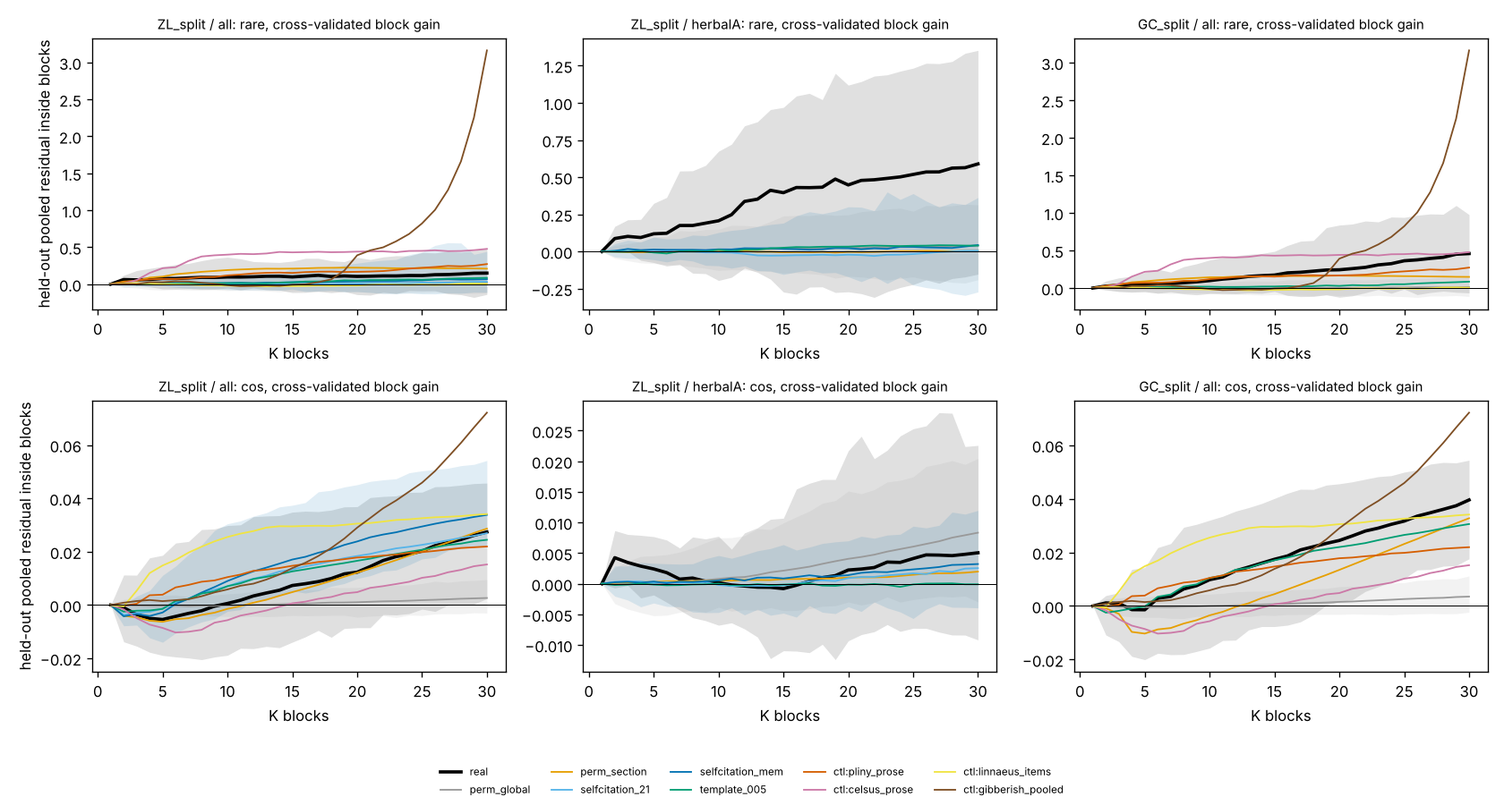
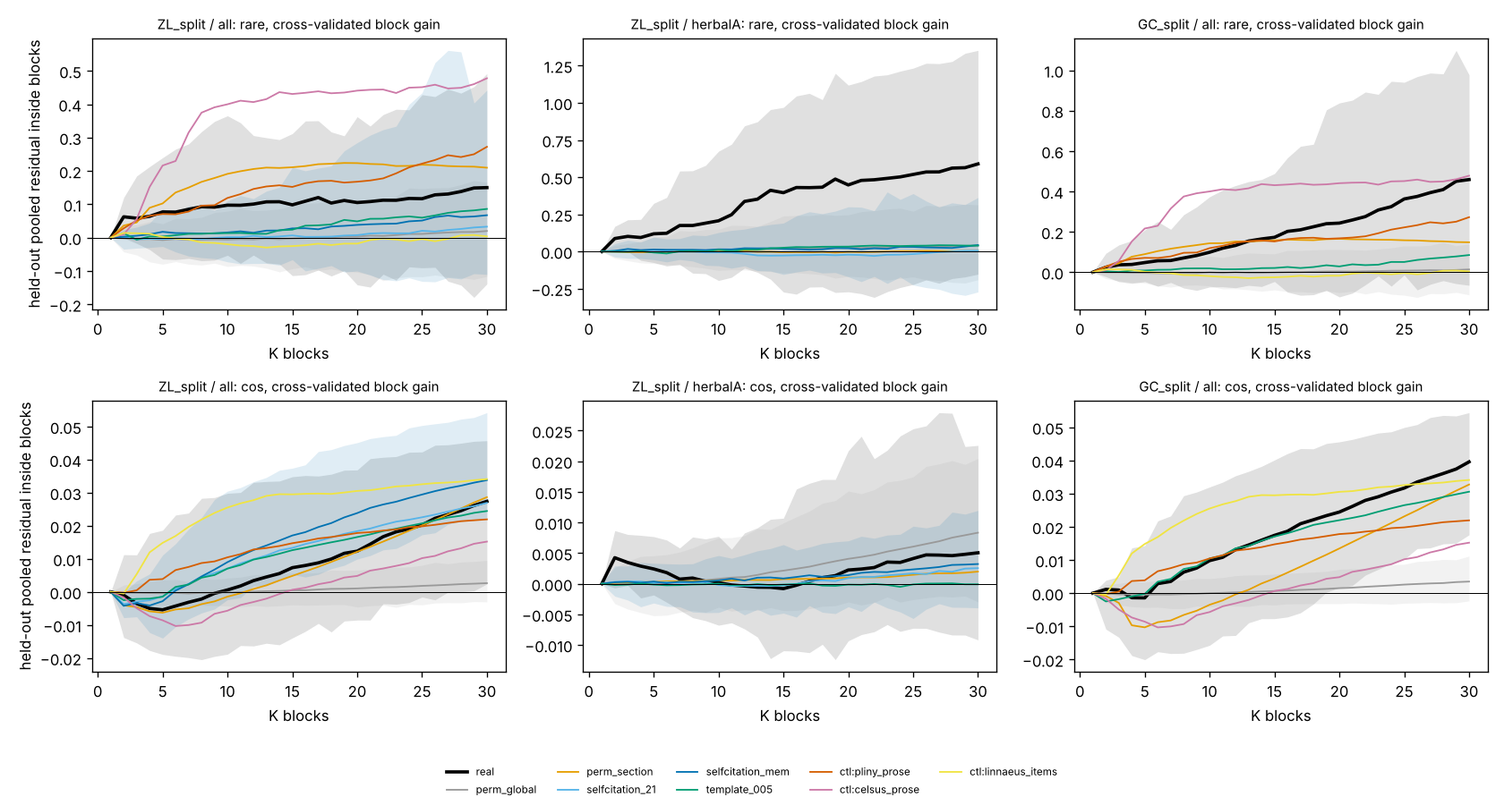
018: report, notes, result.md, final summary tables and figures
Claude-Session: https://claude.ai/code/session_01MxCeoTvfmJTEfqQAe8rUec

diff --git a/experiments/018_locality_drift_vs_blocks/summarize.py b/experiments/018_locality_drift_vs_blocks/summarize.py
@@ -256,7 +256,7 @@ def plots(prof: pd.DataFrame, gain: pd.DataFrame, qm: pd.DataFrame) -> None:
     fig, axes = plt.subplots(2, 3, figsize=(14, 7.5))
     for row, measure in enumerate(("rare", "cos")):
         for ax, (combo, cut) in zip(axes[row], (("ZL_split", "all"), ("ZL_split", "herbalA"), ("GC_split", "all"))):
-            for src in PLOT_SOURCES:
+            for src in [x for x in PLOT_SOURCES if x != "ctl:gibberish_pooled"]:   # 60 pages: K up to 30 is meaningless
                 dd = _series(gain[(gain["measure"] == measure) & (gain["cut"] == cut)], combo, src).sort_values("K")
                 if dd.empty:
                     continue

diff --git a/results/018_locality_drift_vs_blocks/report.md b/results/018_locality_drift_vs_blocks/report.md
@@ -1,0 +1,246 @@
+# 018 – Lokalita slovníku: drift, nebo bloky? A fyzické pořadí stránek
+
+Větev `exp/018-locality-drift-vs-blocks`; kód `experiments/018_locality_drift_vs_blocks/run.py` + `summarize.py`,
+funkce `voytools/locality.py` (testy `tests/test_locality.py`), rozšíření `voytools/selfcitation.py` o paměť přes
+stránky (`p_prev_page`, `page_memory`; výchozí hodnoty dávají bitově shodný výstup, test
+`test_memory_defaults_are_bit_identical`). Volby při výkladu spec jsou v `experiments/018_locality_drift_vs_blocks/notes.md`.
+Čísla níže jsou z `similarity_profile.csv`, `memory_calibration.csv`, `segmentation_gain.csv`, `crossval_blocks.csv`,
+`changepoints.csv` / `changepoints_list.csv`, `physical_order.csv`, `neighbours.csv` / `neighbours_list.csv`,
+`quire_matrix.csv` a `summary.csv` (3 580 běhů, `meta.json`).
+
+## Co se měřilo
+
+Stránka = folio s čistým `P` textem (ZL i GC 207 stránek), vzdálenost = pořadí v souboru. Hlavní míra podobnosti
+(a) = sdílení **vzácných kmenů** (2–5 výskytů, dekompozice a): pro dvojici stránek pozorovaný počet dvojic výskytů
+téhož kmene a jeho očekávání při permutaci tokenů na stránky s vahou ∝ velikosti (015); podobnost množiny dvojic
+= Σ pozorované / Σ očekávané (= poměr k náhodě z 015). Míry (b) kosinus log(1+f) bez 30 funkčních kmenů (006) a
+(c) Jaccard kmenů ≥ 2 výskytů jsou doplňkové (nesou závislost na velikosti stránky, kterou sdílejí všechny nully
+v témž layoutu). Hladký model f(d): sdružený poměr po binech vzdálenosti 1…40 (+ 41+), izotonicky nerostoucí;
+reziduum R = N − f(d)·W. Bloky: optimální segmentace na K = 1…30 souvislých bloků (DP) podle jednostranné deviance
+bloku (Poisson pro (a), Gauss pro (b, c); doslovný součet reziduí je degenerovaný – viz notes). **Zisk bloků** =
+sdružené reziduum uvnitř bloků, křížově ověřený: bloky na jedné polovině kmenů, zisk na druhé polovině proti
+jejímu vlastnímu binovanému profilu (očekávání 0 pro bloky nezávislé na druhé polovině). Pro (a) je zisk
+v jednotkách poměru k náhodě (0,10 = uvnitř bloků o 10 % víc sdílených dvojic, než dá vzdálenost). Reál: 50 rozdělení
+(řádek = rozdělení; interval = kvantily přes rozdělení, `se` = směrodatná chyba průměru), nully a generátory:
+5 rozdělení na vzorek, interval přes vzorky (200 permutací stránek, 30 generátorů). Výřezy `all`, `within` (jen
+dvojice v téže sekci), `herbalA` (H & jazyk A, 95 stránek); K_ref = počet souvislých úseků sekce (24; herbář A:
+kvaternů, 9).
+
+## 1. Profil vzdálenosti (`similarity_profile.csv`, `distance_profile.png`)
+
+Sdílení vzácných kmenů, poměr pozorované/očekávané podle vzdálenosti d (výřez `all`):
+
+| zdroj | 1 | 2 | 3 | 5 | 8 | 12 | 16 | 24 | 32 | 41+ |
+|---|---|---|---|---|---|---|---|---|---|---|
+| **ZL split, reál** | 1,97 | 1,75 | 1,44 | 1,55 | 0,70 | 0,93 | 0,99 | 1,31 | 0,74 | 0,86 |
+| **GC split, reál** | 1,73 | 1,57 | 1,30 | 1,23 | 1,60 | 1,55 | 1,29 | 1,24 | 0,88 | 0,85 |
+| ZL join / GC join, reál | 2,25 / 1,66 | 1,86 / 1,19 | 1,41 / 1,30 | 1,55 / 1,46 | 0,96 / 1,75 | 0,89 / 1,40 | 1,16 / 1,55 | 1,07 / 1,38 | 0,81 / 0,53 | 0,86 / 0,86 |
+| permutace stránek globálně (ZL) | 0,97 | 1,00 | 1,01 | 0,98 | 1,00 | 0,99 | 1,03 | 0,96 | 0,98 | 0,98 |
+| permutace stránek v sekci (ZL) | 1,36 | 1,35 | 1,36 | 1,28 | 1,23 | 1,18 | 1,12 | 1,01 | 0,93 | 0,90 |
+| ts2020 cfg 21 (ZL) | 1,56 | 0,81 | 0,76 | 0,72 | 0,73 | 0,74 | 0,79 | 0,71 | 0,73 | 0,68 |
+| **ts2020-mem** (0,3 / 8; ZL) | 1,92 | 1,60 | 1,49 | 1,34 | 1,25 | 1,08 | 0,99 | 0,88 | 0,71 | 0,71 |
+| šablona 005 s tématem (ZL) | 0,78 | 0,76 | 0,79 | 0,86 | 0,79 | 0,71 | 0,81 | 0,81 | 0,78 | 0,79 |
+| Plinius (knihy) | 3,90 | 2,23 | 1,86 | 1,71 | 1,23 | 1,05 | 0,76 | 0,82 | 0,94 | 0,75 |
+| Celsus (knihy) | 4,11 | 2,54 | 2,35 | 1,96 | 1,65 | 1,00 | 0,93 | 0,82 | 0,93 | 0,66 |
+| Linnaeus po položkách | 4,67 | 1,70 | 1,04 | 1,09 | 0,89 | 0,64 | 0,46 | 0,91 | 0,81 | 0,55 |
+| blábol (60 stránek) | 4,54 | 1,03 | 0,61 | 0,58 | 0,25 | 0,39 | 0,52 | 0,22 | 0,16 | 0,28 |
+
+Uvnitř sekcí (`within`): ZL split reál 2,13 / 1,84 / 1,48 / 1,72 / 0,77 / 1,21 / 0,98 (d = 1, 2, 3, 5, 8, 12, 16),
+GC split 1,79 / 1,57 / 1,26 / 1,21 / 1,47 / 2,12 / 1,66; ts2020-mem 1,90 / 1,54 / 1,50 / 1,34 / 1,30 / 1,07 / 1,14;
+permutace v sekci plochá 1,41 / 1,43 / 1,43 / 1,38 / 1,37 / 1,42 / 1,41. Herbář A: ZL split 2,23 / 1,34 / 1,67 /
+1,44 / 0,71 / 1,02 / 0,99, GC join 1,77 / 1,36 / 1,40 / 1,10 / 1,07 / 1,47 / 2,10; ts2020-mem 1,98 / 1,55 / 1,35 /
+1,33 / 1,24 / 0,93 / 0,97; permutace uvnitř sekce 1,00 / 0,98 / 0,99 / 0,96 / 0,97 / 1,01 / 1,04.
+
+Výklad: profil 015 se reprodukuje (d = 1: 1,97; pokles do ~8–15 stránek), platí i uvnitř sekcí a uvnitř herbáře A
+(kde permutace uvnitř sekce dá přesně 1). ts2020 s pamětí přes stránky dává stejný hladký pokles ve všech třech
+výřezech – z konstrukce, bez znalosti sekcí.
+
+## 2. ts2020 s pamětí přes stránky (`memory_calibration.csv`)
+
+Mřížka p_prev_page ∈ {0,1; 0,2; 0,3; 0,5} × page_memory ∈ {2, 4, 8, 16}, 5 seedů, ztráta = Σ (poměr binu − reál)²
+přes biny 1 / 2–3 / 4–7 / 8–15 profilu 015. Vítěz **p_prev_page = 0,3, page_memory = 8** (ztráta 0,036; druhý 0,5/16:
+0,21; cfg 21 bez paměti: 1,17). Vítěz, 30 seedů [2,5–97,5 %]:
+
+| zdroj | 0 | 1 | 2–3 | 4–7 | 8–15 | 16–31 | 32+ | `x_far_nl` | přebytek ≥ 16 v sekci | v písaři | tvar 0 / 1–3 / 4–15 / 16+ | loss B (004) |
+|---|---|---|---|---|---|---|---|---|---|---|---|---|
+| reál ZL split (015) | 2,90 | 1,97 | 1,60 | 1,38 | 1,24 | 1,02 | 0,87 | −0,053 | **+0,081** | +0,068 | −0,02 / +0,01 / +0,01 / 0,00 | 0,0 |
+| ts2020 cfg 21 | 35,2 | 1,56 [0,82; 2,17] | 0,79 | 0,72 | 0,75 [0,59; 0,84] | 0,75 | 0,68 | −0,008 | +0,014 [−0,023; 0,056] | +0,004 | +0,08 / −0,02 / −0,04 / −0,04 | 0,049 |
+| **ts2020-mem** | 18,6 | 1,93 [1,27; 2,35] | 1,55 | 1,36 | 1,14 [0,94; 1,31] | 0,92 | 0,72 | −0,074 | +0,008 [−0,029; 0,075] | +0,002 | +0,09 / +0,03 / +0,01 / −0,03 | **0,114** (share_near 0,141 vs 0,173; hapax 0,58 vs 0,68) |
+
+Výklad: paměť přes stránky dožene **celý pokles 1–15 stránek** (biny v intervalu reálu) a lokalitu uvnitř sekcí
+i herbáře A (bod 1), ale **ne přebytek dálkových dvojic v téže sekci** (+0,008 proti +0,081, interval reál
+nedosahuje) ani tvar opakování (kopie na téže stránce +0,09 nad paradigma jako cfg 21); vrchol na stránce zůstává
+6× vyšší než reál (18,6 vs 2,9). Ztráta 004 vzroste z 0,049 na 0,114 (> 0,1): kopírování z dřívějších stránek
+sníží podíl blízkých sousedů v řádku (share_near 0,141 proti 0,173 reálu) – generátor s pamětí už není kalibrovaný
+na cíle 004 (uvedeno podle spec).
+
+## 3. Zisk bloků nad model vzdálenosti (`segmentation_gain.csv`, `crossval_blocks.csv`, `segmentation_gain.png`)
+
+Křížově ověřený zisk bloků, vzácné kmeny; průměr [interval], u reálu navíc `se` (`crossval_blocks.csv`):
+
+| výřez / zdroj | K = 2 | K = 8 | K = 24 (K_ref) | K = 30 |
+|---|---|---|---|---|
+| **all, ZL split, reál** | 0,063 [−0,00; 0,12] se 0,005 | 0,093 [−0,07; 0,32] se 0,015 | **0,118** [−0,09; 0,38] se 0,021 | 0,150 se 0,026 |
+| all, ZL join / GC split / GC join, reál | 0,073 / 0,024 / 0,055 | 0,134 / 0,071 / 0,066 | 0,131 / **0,324** / 0,133 | 0,152 / 0,459 / 0,157 |
+| all, permutace globálně (ZL) | −0,002 [−0,04; 0,04] | −0,006 [−0,08; 0,06] | 0,011 [−0,12; 0,15] | 0,020 [−0,12; 0,17] |
+| all, permutace v sekci (ZL) | 0,036 [0,00; 0,08] | 0,167 [0,01; 0,31] | **0,215** [−0,02; 0,51] | 0,210 |
+| all, ts2020 cfg 21 (ZL) | 0,002 | −0,004 | 0,013 [−0,07; 0,13] | 0,033 |
+| all, **ts2020-mem** (ZL) | 0,003 | 0,013 | **0,049** [−0,12; 0,40] | 0,067 [−0,11; 0,44] |
+| all, šablona 005 s tématem (ZL / GC) | 0,013 / 0,004 | 0,012 / 0,018 | 0,064 / 0,051 | 0,086 / 0,085 |
+| all, Plinius (K_ref = 7) | 0,028 | 0,096 [0,03; 0,25] | 0,211 | 0,272 |
+| all, Plinius, permutace v knize | 0,028 | 0,267 | 0,591 [0,41; 0,77] | 0,658 |
+| all, Celsus / Linnaeus | 0,010 / 0,014 | 0,375 / −0,014 | 0,450 / −0,011 | 0,478 / 0,004 |
+| **within, ZL split, reál** | 0,004 | 0,000 | 0,032 [−0,21; 0,30] se 0,022 | 0,071 se 0,029 |
+| within, ZL join / GC split / GC join, reál | −0,006 / −0,019 / 0,001 | −0,022 / 0,024 / −0,029 | −0,037 / 0,226 / 0,005 | 0,032 / 0,311 / 0,006 |
+| within, permutace globálně / v sekci (ZL) | −0,002 / 0,005 | −0,001 / 0,031 | 0,011 [−0,15; 0,16] / 0,065 | 0,021 / 0,089 |
+| within, ts2020-mem / šablona (ZL) | −0,002 / −0,001 | −0,015 / 0,006 | 0,006 / 0,066 | 0,049 / 0,086 |
+| **herbalA, ZL split, reál** (K = 2 / 9 / 18 / 27) | 0,088 [0,01; 0,17] | 0,191 se 0,029 | **0,432** [−0,24; 1,02] se 0,059 | 0,535 se 0,064 |
+| herbalA, ZL join / GC split / GC join, reál | 0,073 / 0,050 / 0,053 | 0,315 / 0,066 / 0,322 | 0,646 / 0,079 / 0,682 | 0,755 / 0,072 / 0,813 |
+| herbalA, permutace globálně / v sekci (ZL) | −0,001 / −0,000 | 0,004 / −0,003 | 0,024 [−0,16; 0,25] / −0,003 | 0,035 / 0,004 |
+| herbalA, ts2020 / ts2020-mem / šablona (ZL) | 0,004 / 0,005 / −0,001 | −0,006 / 0,010 / 0,001 | −0,022 / 0,015 / 0,032 | −0,004 / 0,026 / 0,042 |
+
+Kosinus (výřez all, K = 24): reál ZL 0,019 [−0,00; 0,04], permutace globálně 0,002 [−0,004; 0,008], **permutace
+v sekci 0,019**, ts2020 0,022, ts2020-mem 0,028, šablona 0,020, Plinius 0,020, Linnaeus 0,032 – u kosinu a Jaccardu
+dává stejný zisk každý zdroj v témž layoutu (velikost stránek a jazyk A/B podle pozice), nerozlišují nic; dál jen (a).
+
+Výklad: (i) V celém rukopisu je zisk bloků nad vzdálenost kladný a nad permutaci stránek (ZL split 0,12 ± 0,02
+proti 0,01 [−0,12; 0,15] při K = 24; ve všech čtyřech kombinacích; při K = 2 je první hranice f70r2 | f75r, tj.
+konec herbáře/astro a začátek balneo – bloky = sekce a jazyk). ts2020-mem dá 0,05, šablona s tématem 0,06–0,09,
+ts2020 0,01. Permutace stránek uvnitř sekcí má zisk **vyšší než reál** (0,22): když se zruší pozvolný pokles uvnitř
+sekce, všechna sekční podobnost zůstane blokům; v reálu část sekční podobnosti pohltí f(d). Plinius s knihami je
+stejný případ (0,21 proti 0,59 po permutaci v knize). (ii) **Uvnitř sekcí** zisk nad permutaci není (ZL split 0,03
+± 0,02, ZL join −0,04, GC join 0,01 při K = 24; jen GC split 0,23 ± 0,03 – nepotvrzeno v join). (iii) **V herbáři A**
+je zisk kladný a 10× nad všemi nully a generátory ve třech ze čtyř kombinací (ZL split 0,43 ± 0,06, ZL join 0,65,
+GC join 0,68 při K = 18; permutace 0,02 [−0,16; 0,25], ts2020-mem 0,02, šablona 0,03); GC split dá jen 0,08 ± 0,03.
+Hodnoty jsou v jednotkách poměru: uvnitř nalezených bloků herbáře A je o 40–70 % víc sdílených vzácných kmenů,
+než dá vzdálenost.
+
+## 4. Body změny (`changepoints.csv`, `changepoints_list.csv`)
+
+Přesnost hranic (± 1 stránka) při K = K_ref, výřez all, vzácné kmeny; náhodná základna = náhodné hranice:
+
+| zdroj | sekce: přesnost [perm. interval] / náhoda | úplnost | kvatern: přesnost / náhoda | jazyk (K = 2 K_ref): přesnost / náhoda |
+|---|---|---|---|---|
+| **ZL split, reál** | 0,30 / 0,21 | 0,43 / 0,30 | 0,35 / 0,21 | 0,41 / 0,36 |
+| ZL join / GC split / GC join, reál | 0,35 / 0,35 / 0,26 | 0,48 / 0,39 / 0,35 | 0,30 / 0,39 / 0,22 | 0,34 / 0,48 / 0,41 |
+| permutace globálně (ZL) | 0,20 [0,04; 0,35] | 0,29 | 0,21 [0,04; 0,35] | 0,35 |
+| permutace v sekci (ZL) | 0,35 [0,17; 0,57] | 0,45 | 0,23 | 0,27 |
+| ts2020 / ts2020-mem / šablona (ZL) | 0,20 / 0,24 / 0,24 | 0,28 / 0,36 / 0,36 | 0,22 / 0,23 / 0,25 | 0,36 / 0,37 / 0,32 |
+| kosinus, ZL split reál | **0,48** [perm 0,04; 0,35] | 0,52 | 0,30 | 0,52 |
+| Plinius (knihy, K = 7) | **0,33** [perm 0,00; 0,33] / 0,09 | 0,33 | 0,17 / 0,22 | – |
+| Celsus (knihy, K = 5) | **0,50** [0,00; 0,25] / 0,05 | 0,50 | 0,00 | – |
+| Linnaeus (řády, K = 4) | 0,00 / 0,04 | 0,00 | 0,33 | – |
+| blábol (pisatelé, K = 30) | 1,00 / 0,86 | 0,97 | 0,66 / 0,64 | – |
+
+Herbář A (K = 9, hranice kvaternů): ZL split a ZL join 0,50 (úplnost 0,38) proti náhodě 0,27 a permutaci
+[0,00; 0,50]; GC 0,12; ts2020-mem 0,28, šablona 0,28. Hranice reálu v ZL split (vzácné kmeny, K = 24): 7 z 23 sedí na
+hranici sekce (f68v2|f69r, f70r2|f75r, f75v|f76r, f86v3|f87r, f87v|f88r, f89v1|f90r1, f96v|f99r), 8 na hranici
+kvaternu, zbytek uvnitř herbáře A (f9r|f9v, f13r|f13v, f38r|f38v, f49r|f49v …) a uvnitř Q20 (f104v|f105r,
+f107v|f108r, f114r|f114v); kosinus: 11 z 23 na sekci (f56v|f57r, f67r2|f67v2, f70r2|f75r, f84v|f85r1, f102v1|f103r …).
+
+Výklad: body změny vzácných kmenů sedí na hranice sekcí jen na horním okraji permutačního intervalu (0,30–0,35
+proti [0,04; 0,35]); kosinus v ZL split je nad ním (0,48), ale permutace v sekci dává totéž (0,48) – jde o skok
+sekce/jazyka, ne o bloky uvnitř. Pozitivní kontrola funguje: knihy Plinia a Celsa se najdou (0,33 a 0,50 proti
+náhodě 0,05–0,09), Linnaeus po položkách ne. Uvnitř herbáře A sedí hranice bloků na kvaterny v ZL (0,50 proti 0,27),
+v GC ne.
+
+## 5. Fyzické pořadí (`physical_order.csv`, `quire_matrix.csv`, `quire_matrix.png`)
+
+Přebytek rezidua dvojic na témž bifoliu / v témž kvaternu proti ostatním dvojicím na stejné vzdálenosti (d ≤ 15;
+(a) v jednotkách poměru, kosinus v jednotkách kosinu):
+
+| zdroj | bifolio, (a) | bifolio, kosinus | kvatern, (a) | kvatern, kosinus | pořadí kvaternů: nejpodobnější = soused | ρ spektrální seriace vs čtení |
+|---|---|---|---|---|---|---|
+| **ZL split, reál** (337 / 1 430 dvojic) | +0,36 | **+0,046** | +0,35 | +0,062 | 0,00 (kos.) / 0,13 (a) | **0,76** (kos.) / 0,44 (a) |
+| ZL join / GC split / GC join, reál | +0,35 / +0,45 / +0,70 | +0,043 / +0,029 / +0,033 | +0,33 / +0,10 / +0,29 | +0,054 / +0,067 / +0,062 | 0,06 / 0,00 / 0,00 | 0,72 / 0,71 / 0,63 |
+| permutace globálně (ZL) | +0,01 [−0,49; 0,46] | −0,000 [−0,008; 0,010] | −0,00 [−0,53; 0,40] | −0,000 [−0,014; 0,012] | 0,11 [0,00; 0,25] | 0,19 [0,01; 0,54] |
+| permutace v sekci (ZL) | +0,09 [−0,35; 0,53] | +0,009 [0,001; 0,019] | +0,21 [−0,21; 0,52] | +0,048 [0,037; 0,058] | 0,03 | 0,28 [0,02; 0,61] |
+| ts2020 / ts2020-mem / šablona (ZL) | −0,03 / +0,05 / +0,07 | −0,004 / −0,007 / +0,004 | −0,14 / −0,20 / −0,16 | +0,026 / +0,031 / +0,024 | 0,06 / 0,10 / 0,06 | 0,31 / 0,30 / 0,28 |
+| Plinius / Celsus / Linnaeus | −0,00 / −0,19 / −0,03 | −0,001 / −0,010 / −0,015 | −0,10 / −0,17 / −0,44 | +0,015 / +0,014 / +0,009 | 0,50 / 0,13 / 0,31 | 0,03 / 0,58 / 0,43 |
+
+Výklad: **dvojice stránek na témž bifoliu jsou si podobnější než jiné dvojice ve stejné vzdálenosti čtení**:
+kosinus +0,029 až +0,046 ve všech čtyřech kombinacích proti permutaci globálně [−0,008; +0,010], permutaci v sekci
+[+0,001; +0,019] a generátorům (≤ +0,004); u vzácných kmenů stejný směr (+0,35 až +0,70), ale interval permutace je
+široký (významně jen GC join). Latinské kontroly v témž layoutu dávají 0 (bifolio v lineárním textu nic neznamená).
+Kvatern: kosinus +0,05 až +0,07 jen těsně nad permutací v sekci (+0,048 [0,037; 0,058]) – skok na hranici kvaternu
+nad rámec sekce je nanejvýš malý. Spektrální pořadí kvaternů (z matice reziduí) koreluje s pořadím čtení
+(|ρ| 0,63–0,76 kosinus proti permutacím [0,01; 0,61]); u (a) 0,32–0,57 uvnitř intervalu.
+
+## 6. Sousedé (`neighbours.csv`, `neighbours_list.csv`)
+
+Tři nejpodobnější stránky téhož jazyka; podíl sousedů ve vzdálenosti ≤ 5 / > 16, počet stránek se všemi třemi
+sousedy > 8 stránek daleko (ze 197 stránek s ≥ 3 partnery):
+
+| zdroj | reziduum (a): ≤ 5 / > 16 / anomálie | reziduum kosinus | surový kosinus: ≤ 5 / > 16 / anomálie |
+|---|---|---|---|
+| **ZL split, reál** | 0,074 / 0,83 / 139 | 0,090 / 0,73 / 140 | **0,220 / 0,57 / 88** |
+| ZL join / GC split / GC join, reál | 0,083 / 0,095 / 0,112 | 0,086 / 0,076 / 0,085 | 0,227 / 0,223 / 0,245 (anomálie 84 / 83 / 76) |
+| permutace globálně (ZL) | 0,067 [0,05; 0,09] / 0,82 / 144 [131; 156] | 0,072 [0,05; 0,10] / 0,80 / 141 | 0,076 [0,05; 0,10] / 0,80 / 138 [123; 153] |
+| ts2020-mem (ZL) | 0,086 / 0,77 / 135 | 0,092 / 0,75 / 132 | – |
+| Plinius / Celsus / Linnaeus | 0,178 / 0,179 / 0,146 | 0,162 / 0,166 / 0,279 | 0,443 / 0,425 / 0,699 (anomálie 30 / 45 / 8) |
+
+Výklad: po odečtení f(d) nejsou nejpodobnější stránky blíž než při permutaci (0,07–0,11 proti [0,05; 0,10]) –
+lokalita je v hladké složce, ne v jednotlivých „párech“ stránek. Surovou podobností je 22 % sousedů do 5 stránek
+(permutace 8 %), ale **88 stránek ze 197 má všechny tři sousedy > 8 stránek daleko** (permutace 138 [123; 153];
+Plinius 30, Celsus 45, Linnaeus 8). Seznam (`neighbours_list.csv`, `cos_raw`, `anomalous = 1`): převážně herbář A
+v Q1–Q7 (f1v–f55v; sousedé jiné stránky herbáře A o 15–100 stránek dál), herbářové B listy f26, f31, f33, f39,
+f40, f41v, f43, f46r, f48, f50, f55 (sousedé v Q13–Q20: f111r, f108v, f106v, f115v), f66r, f75r, f84v, f85–f86 (astro/kosmo), f94–f95 (herbář B v Q17), recepty f103r–f106v (sousedé f111–
+f115 10–18 stránek dál) a f116r. Herbářové B stránky uprostřed herbáře A mají sousedy v B sekcích na konci
+rukopisu – to je známá hypotéza o přeskládání (herbář B v herbáři A), ale zde jde jen o jazyk A/B: sousedé se
+hledají v témž jazyce, a B stránky v Q4–Q7 nemají poblíž žádnou jinou B stránku.
+
+## Kontroly a kritéria přijetí
+
+* Kritérium 1: vše pro ZL i GC, split i join (všechny body), tři výřezy; ts2020 a ts2020-mem jen ZL; šablona split.
+* Kritérium 3 (podezřelé hodnoty): zisk bloků permutace stránek globálně je ≈ 0 ve všech výřezech (−0,006 až
+  +0,02, intervaly obsahují 0; `segmentation_gain.csv`); ts2020-mem s p_prev_page = 0 je bitově shodný s ts2020
+  (test); Plinius má body změny na hranicích knih (0,33 proti náhodě 0,09; Celsus 0,50 proti 0,05).
+* Kosinus a Jaccard: zisk bloků stejný u reálu i u všech nullů v témž layoutu (velikost stránek) – použity jen pro
+  fyzické pořadí, kde permutace dávají 0.
+* Neurčitost zisku (a): intervaly přes rozdělení kmenů jsou široké (jedna polovina vzácných kmenů ≈ 240 kmenů);
+  závěry stojí na průměru 50 rozdělení (se 0,02–0,06) proti rozdělení 200 permutací.
+
+## Odpovědi (kritérium 2)
+
+| otázka | ZL | GC |
+|---|---|---|
+| (i) reprodukuje ts2020-mem profil 1–15 a zároveň přebytek v téže sekci a lokalitu uvnitř sekcí? | profil 1–15 **ano** (1,93 / 1,55 / 1,36 / 1,14 proti 1,97 / 1,60 / 1,38 / 1,24), lokalita uvnitř sekcí a herbáře A **ano**; přebytek ≥ 16 v sekci **ne** (+0,008 proti +0,081); tvar opakování ne; loss 004 0,11 (> 0,1) | – (jen Eva) |
+| (ii) křížově ověřený zisk bloků nad ts2020-mem? | celý rukopis **ano, malý** (0,12 ± 0,02 proti 0,05; Plinius s knihami 0,21); uvnitř sekcí **ne** (0,03 ± 0,02); herbář A **ano, velký** (0,43 ± 0,06 proti 0,02) | celý 0,32 / 0,13 (split / join); uvnitř sekcí 0,23 / 0,01; herbář A 0,08 / 0,68 |
+| (iii) sedí body změny na hranice sekcí/kvaternů nad náhodu? | sekce: jen na okraji permutačního intervalu (0,30–0,35 vs [0,04; 0,35]; kosinus 0,48 = skok sekce/jazyka jako permutace v sekci); kvaterny uvnitř herbáře A **ano** (0,50 vs 0,27, interval [0; 0,50]) | sekce 0,26–0,35; kvaterny v herbáři A ne (0,12) |
+| (iv) sleduje podobnost pořadí čtení, nebo bifolia/kvaterny; anomálie? | **bifolio nad pořadí čtení** (kosinus +0,046 vs perm. ≤ +0,019); kvatern ≈ sekce; pořadí kvaternů sleduje čtení (ρ 0,76); 88 stránek s cizími sousedy (herbář A v Q1–Q7, herbářové B listy, recepty) | bifolio +0,029 / +0,033; ρ 0,71 / 0,63; 83 / 76 anomálií |
+
+## Shrnutí
+
+**Čísla:** profil vzácných kmenů 1,97 / 1,75 / 1,44 (d = 1, 2, 3) → 0,86 (41+), uvnitř sekcí 2,13 / 1,84 / 1,48,
+v herbáři A 2,23 / 1,34 / 1,67; ts2020-mem (0,3 / 8) 1,92 / 1,60 / 1,49 → 0,71, biny 015 1,93 / 1,55 / 1,36 / 1,14
+(reál 1,97 / 1,60 / 1,38 / 1,24), přebytek v sekci +0,008 (reál +0,081), loss 004 0,11. Zisk bloků (K = 24): celý
+rukopis ZL 0,12 ± 0,02 (GC 0,32 / 0,13), permutace 0,01 [−0,12; 0,15], permutace v sekci 0,22, ts2020-mem 0,05,
+šablona 0,06, Plinius 0,21; uvnitř sekcí 0,03 ± 0,02 (GC 0,23 / 0,01); herbář A (K = 18) 0,43 ± 0,06 (ZL join
+0,65, GC join 0,68, GC split 0,08), nully ≤ 0,04. Body změny na sekcích 0,30–0,35 vs permutace [0,04; 0,35], Plinius
+0,33 vs 0,09; kvaterny v herbáři A 0,50 vs 0,27. Bifolio: kosinus +0,029 až +0,046 vs permutace [−0,008; +0,010] a
+v sekci [+0,001; +0,019]; ρ pořadí kvaternů 0,63–0,76 vs [0,01; 0,61]; anomální stránky 76–88 vs 138 [123; 153].
+
+**Interpretace:** Lokalita slovníku má dvě složky. Hladký pokles přes 1–15 stránek, včetně poklesu uvnitř sekcí
+a uvnitř herbáře A, dá kopírování s pamětí přes stránky z konstrukce (p_prev_page 0,3, střední dosah 8 stránek) –
+sám o sobě drift nerozliší od tématu. Nad tento model zůstávají **bloky**: v celém rukopisu malé a odpovídající
+sekcím a jazyku A/B (zisk 0,12, body změny f70r2|f75r, f86v3|f87r, f96v|f99r …), uvnitř sekcí obecně žádné, ale
+**uvnitř herbáře A velké** (o 40–70 % víc sdílených vzácných kmenů v blocích než dá vzdálenost, 10× nad všemi nully,
+ve 3 ze 4 kombinací), s hranicemi sedícími na kvaterny v ZL. K tomu je podobnost vázána na **fyzický list**: stránky
+téhož bifolia si jsou podobnější než stránky ve stejné vzdálenosti čtení (ve všech čtyřech kombinacích, u latinských
+kontrol v témž layoutu nula), což paměťové kopírování nedává. Věta: **drift i bloky** – hladká složka slučitelná
+s pamětí přes stránky, blokovou složku (sekce/jazyk globálně, kvaternové bloky v herbáři A, vazba na bifolio) paměť
+nedá; podobnost sleduje spíš fyzickou jednotku (bifolio) než čistě pořadí čtení.
+
+**Co výsledek neukazuje:** nerozliší, zda bloky herbáře A jsou témata (skupiny rostlin), dávky psaní nebo
+samostatné sešity (kvaterny) – zisk a hranice na kvaternech jsou s obojím slučitelné; GC split dá v herbáři A
+jen 0,08 (tři ze čtyř kombinací nestačí na „platí v obou transliteracích“ bez výhrady); přebytek dálkových dvojic
+v téže sekci (015) zůstal nevysvětlený (ts2020-mem +0,008) a nebyl zde dál rozložen; kosinus a Jaccard nic
+nerozlišují kvůli velikosti stránek; intervaly zisku (a) jsou široké a závěry stojí na průměrech přes rozdělení kmenů.
+Anomálie sousedů jsou z velké části důsledek jazyka A/B (B listy v herbáři A nemají poblíž žádnou B stránku) a
+neopravňují k závěru o přeskládání.
+
+**Další krok:** bloky herbáře A rozložit podle obsahu: párovat stránky podle rostliny/ilustrace (totéž jako návrh
+015 – herbář vs farma) a podle bifolia uvnitř kvaternu; ověřit, zda bloky v herbáři A sedí na bifolia (zde jen
+kvaterny) a zda je dá ts2020-mem s pamětí definovanou přes fyzický list místo pořadí čtení; GC split prověřit na
+úrovni dekompozice (proč jediný dává v herbáři A nulu). Pro 020 (odstavec jako jednotka) vzít stejný rámec
+(f(d) + bloky) na úrovni řádků.

diff --git a/experiments/018_locality_drift_vs_blocks/result.md b/experiments/018_locality_drift_vs_blocks/result.md
@@ -1,0 +1,5 @@
+# 018 – locality_drift_vs_blocks
+
+Stav: hotovo s výhradou · 2026-10-28 · větev `exp/018-locality-drift-vs-blocks` · report: `results/018_locality_drift_vs_blocks/report.md`
+
+Souhrn: ts2020 s pamětí přes stránky (p_prev_page 0,3, page_memory 8) reprodukuje hladký pokles sdílení vzácných kmenů přes 1–15 stránek (biny 1,93 / 1,55 / 1,36 / 1,14 proti reálu 1,97 / 1,60 / 1,38 / 1,24) i lokalitu uvnitř sekcí a herbáře A, ale ne přebytek dálkových dvojic v téže sekci (+0,008 vs +0,081) a ztráta 004 vzroste na 0,11. Nad model vzdálenosti zůstávají bloky: v celém rukopisu malé a sekční/jazykové (křížově ověřený zisk ZL 0,12 ± 0,02, GC 0,32 / 0,13; permutace stránek 0,01, ts2020-mem 0,05, Plinius s knihami 0,21), uvnitř sekcí žádné (0,03), v herbáři A velké (ZL split 0,43 ± 0,06, ZL join 0,65, GC join 0,68, nully ≤ 0,04; GC split jen 0,08) s hranicemi na kvaternech v ZL (přesnost 0,50 vs náhoda 0,27). Stránky téhož bifolia jsou si podobnější než stránky ve stejné vzdálenosti čtení (kosinus +0,03 až +0,05 ve všech čtyřech kombinacích vs permutace ≤ +0,02, latinské kontroly 0); 76–88 stránek má nejbližší sousedy > 8 stránek daleko (permutace 138), hlavně jazyk A/B. Výhrady: body změny na sekcích jen na okraji permutačního intervalu; herbář A v GC split nepotvrzen; kosinus/Jaccard pro bloky neinformativní (velikost stránek).

diff --git a/experiments/018_locality_drift_vs_blocks/notes.md b/experiments/018_locality_drift_vs_blocks/notes.md
@@ -59,3 +59,12 @@
 * Externí kontroly: `lrozanova/voynich-units` → `../lrozanova/voynich-units`, `danielgaskell/voynich` → `../ext/gaskell`
   (cesty jako v 009/013).
 * Časy: reál (1 rozdělení) 1,8 s; permutace stránek (5 rozdělení) 3 s; ts2020 vzorek 3 s + metriky; šablona 18 s.
+* Běhy: 4–6 procesů najednou s `OMP_NUM_THREADS=1` (bez toho se vlákna BLAS přetahovala, 8 s na řádek místo 3 s).
+  Jeden řetězec úloh přežil ukončení a počítal Celsa/Linnaea souběžně s frontou – duplicitní seedy v `runs.csv`
+  (identické hodnoty, ověřeno) byly odstraněny (`drop_duplicates('seed')`); žádný poškozený řádek.
+* Nejistota zisku (a): po polovinách kmenů je na d = 1 jen ~7 dvojic, proto biny v f(d) a hodnocení proti
+  binovanému profilu poloviny 2; intervaly přes rozdělení jsou široké, `se` průměru 0,02–0,06.
+* Kosinus/Jaccard: zisk bloků roste s K stejně u všech zdrojů v témž layoutu (velikost stránek, jazyk podle pozice) –
+  pro bloky nepoužitelné, pro fyzické pořadí (bifolio) ano, protože permutace dávají přesně 0.
+* `neighbours_list.csv`: u surového poměru (a) mají malé stránky poměry 0 / 20 / 40 a mnoho remíz (`f1r f1v f2r`),
+  seznam anomálií proto podle surového kosinu.
